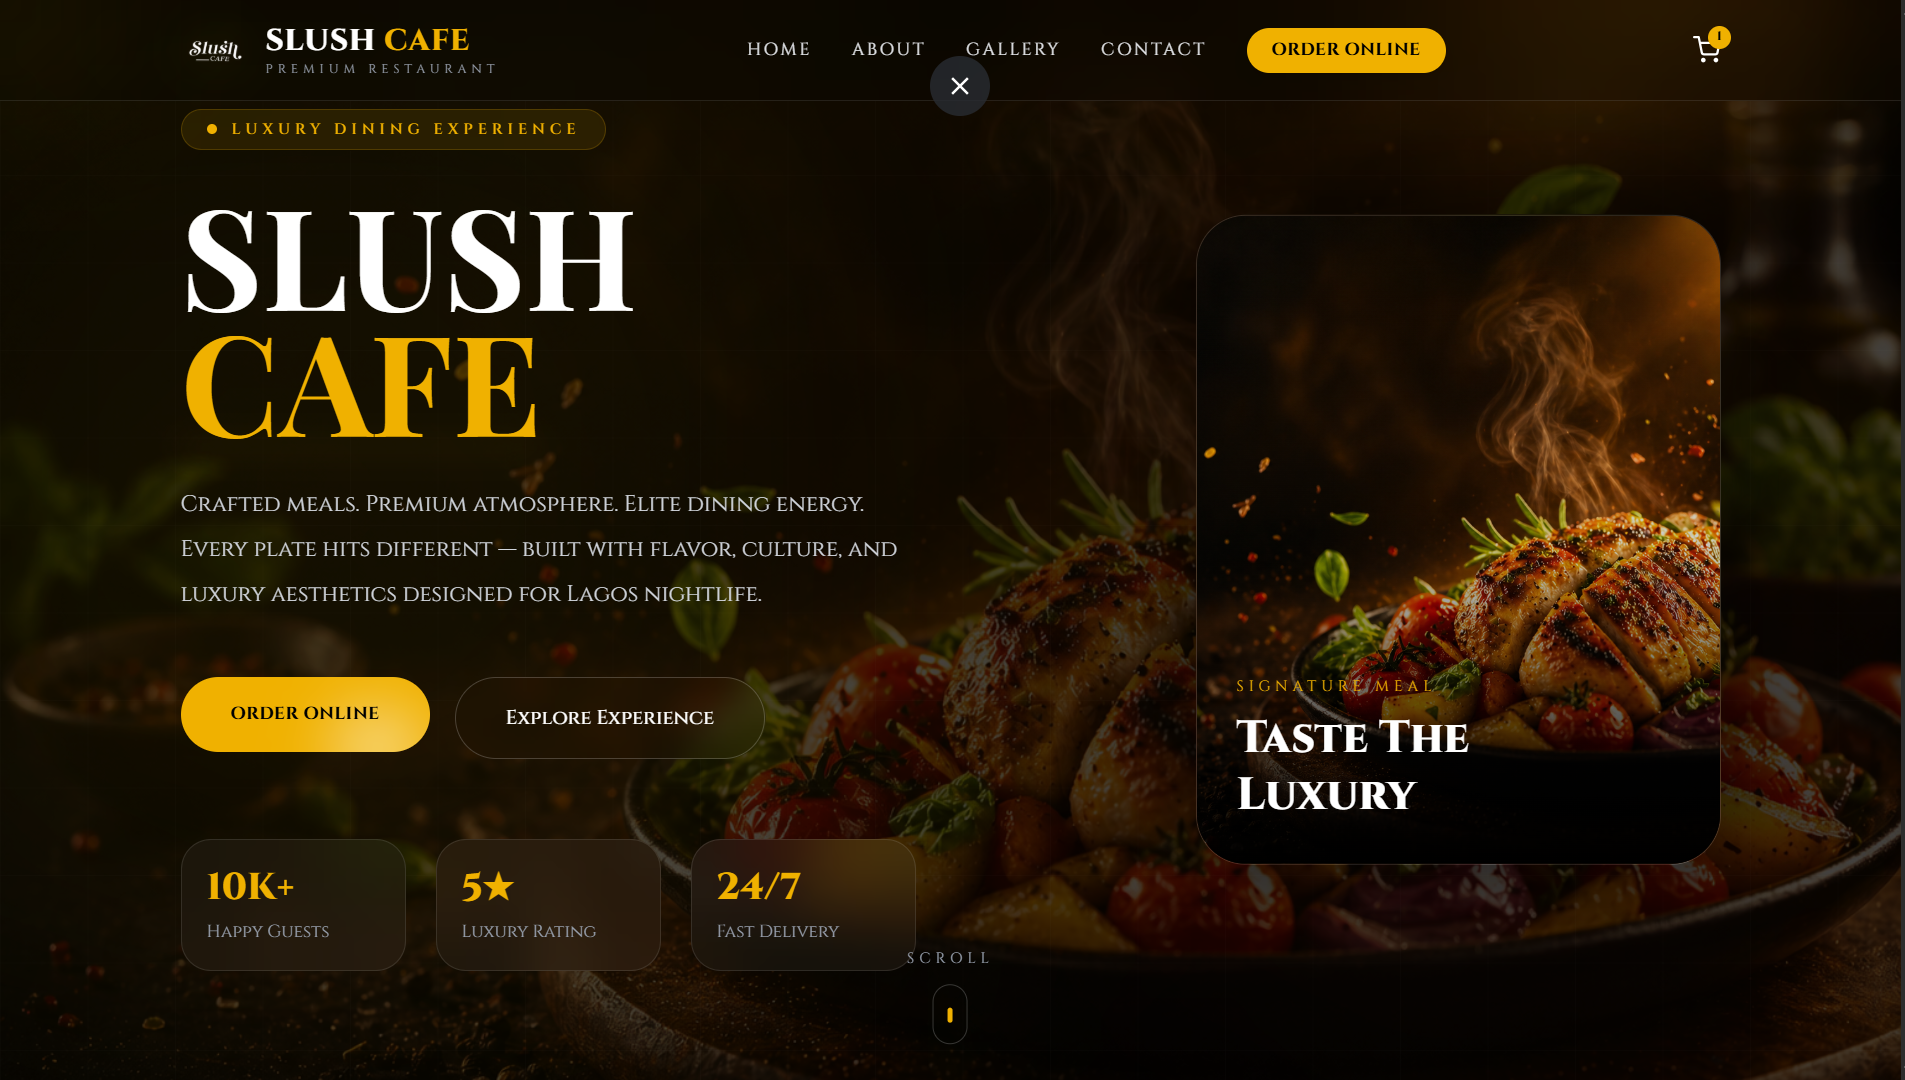
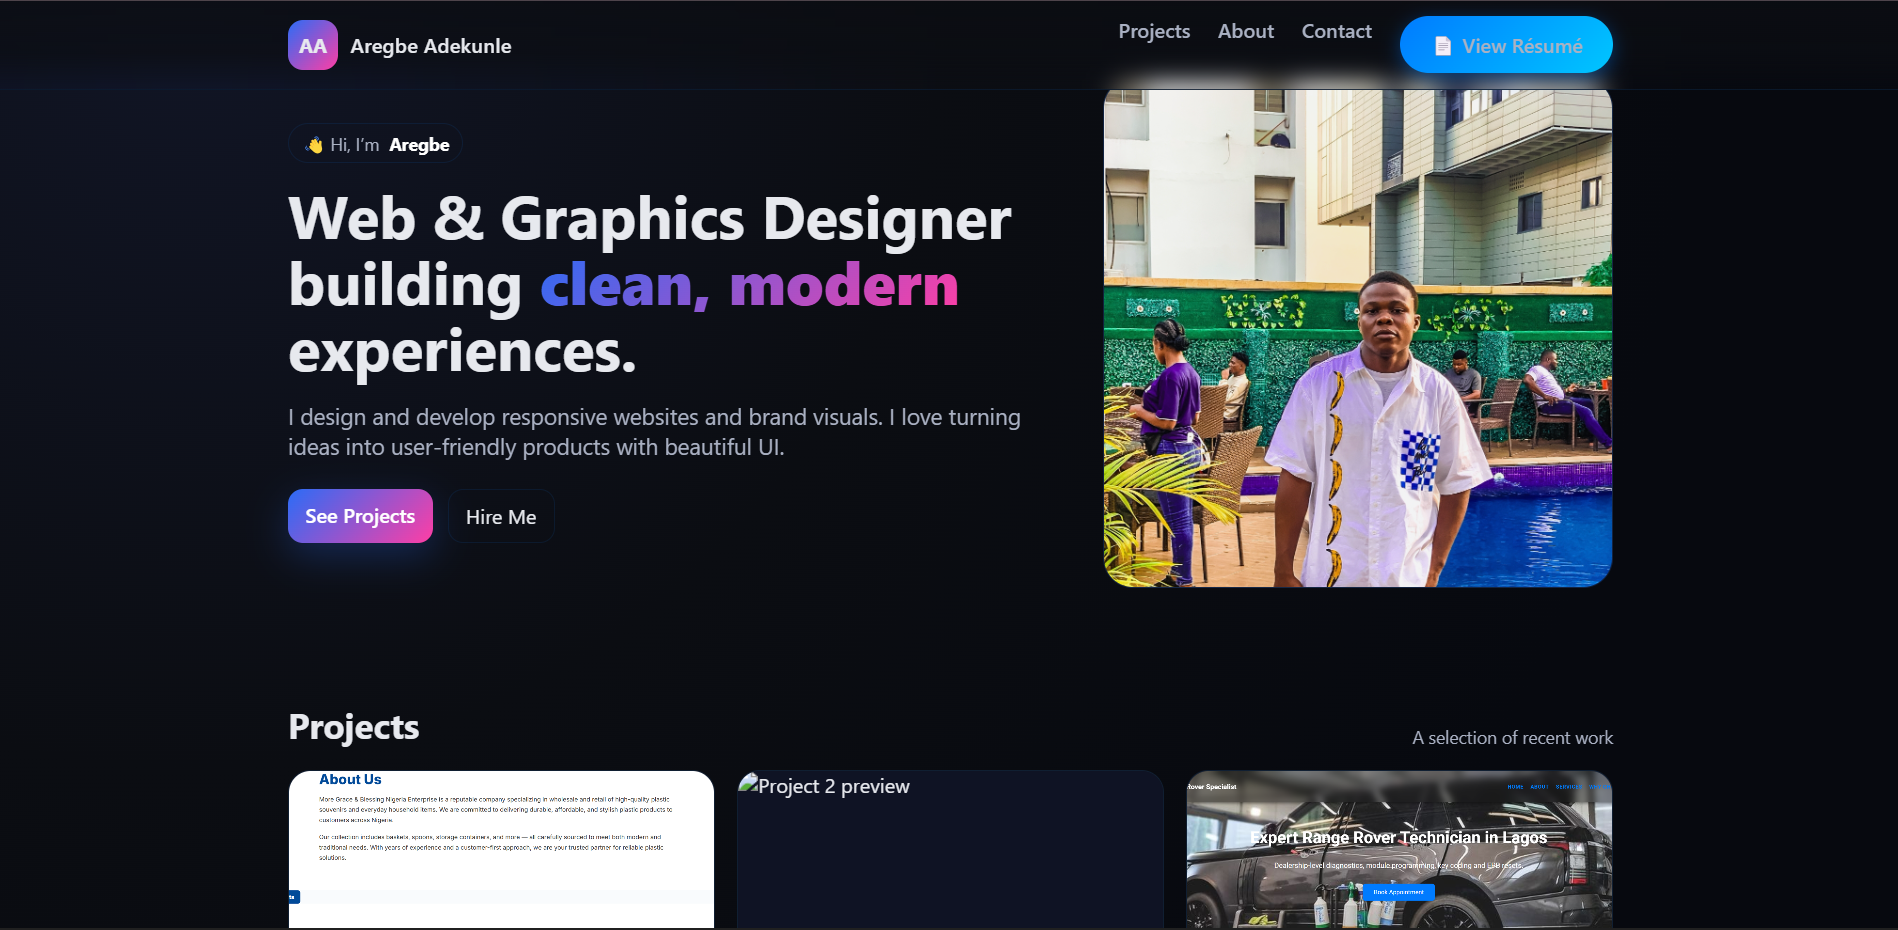
your update

diff --git a/src/components/Projects.jsx b/src/components/Projects.jsx
@@ -8,6 +8,7 @@ import {
 import project1 from "../assets/images/project1.jpg";
 import project2 from "../assets/images/project2.jpg";
 import project3 from "../assets/images/project3.jpg";
+import project4 from "../assets/images/project4.jpg";
 
 const projects = [
   {
@@ -44,6 +45,18 @@ const projects = [
       "https://github.com/Ayat360/More-Grace-Blessing-Nig.-Ent",
     live:
       "https://more-grace-blessing-nig-ent.vercel.app/",
+  },
+
+  {
+    title: "dammy-confectionery",
+    image: project4,
+    description:
+      "A modern café experience platform designed to showcase a vibrant food and drinks brand with menu highlights, smooth navigation, and a visually rich interface that reflects a cozy, aesthetic dining atmosphere.",
+    tech: ["React", "CSS", "Framer Motion"],
+    github:
+      "https://github.com/Ayat360/dammy-confectionery",
+    live:
+      "https://dammy-confectionery.vercel.app/",
   },
 ];
 

diff --git a/src/components/Loader.jsx b/src/components/Loader.jsx
@@ -45,7 +45,7 @@ export default function Loader() {
             duration: 2,
           }}
         >
-          PROXIMA A3
+          AYAT360
         </motion.h1>
 
         <div className="loader-bar">
